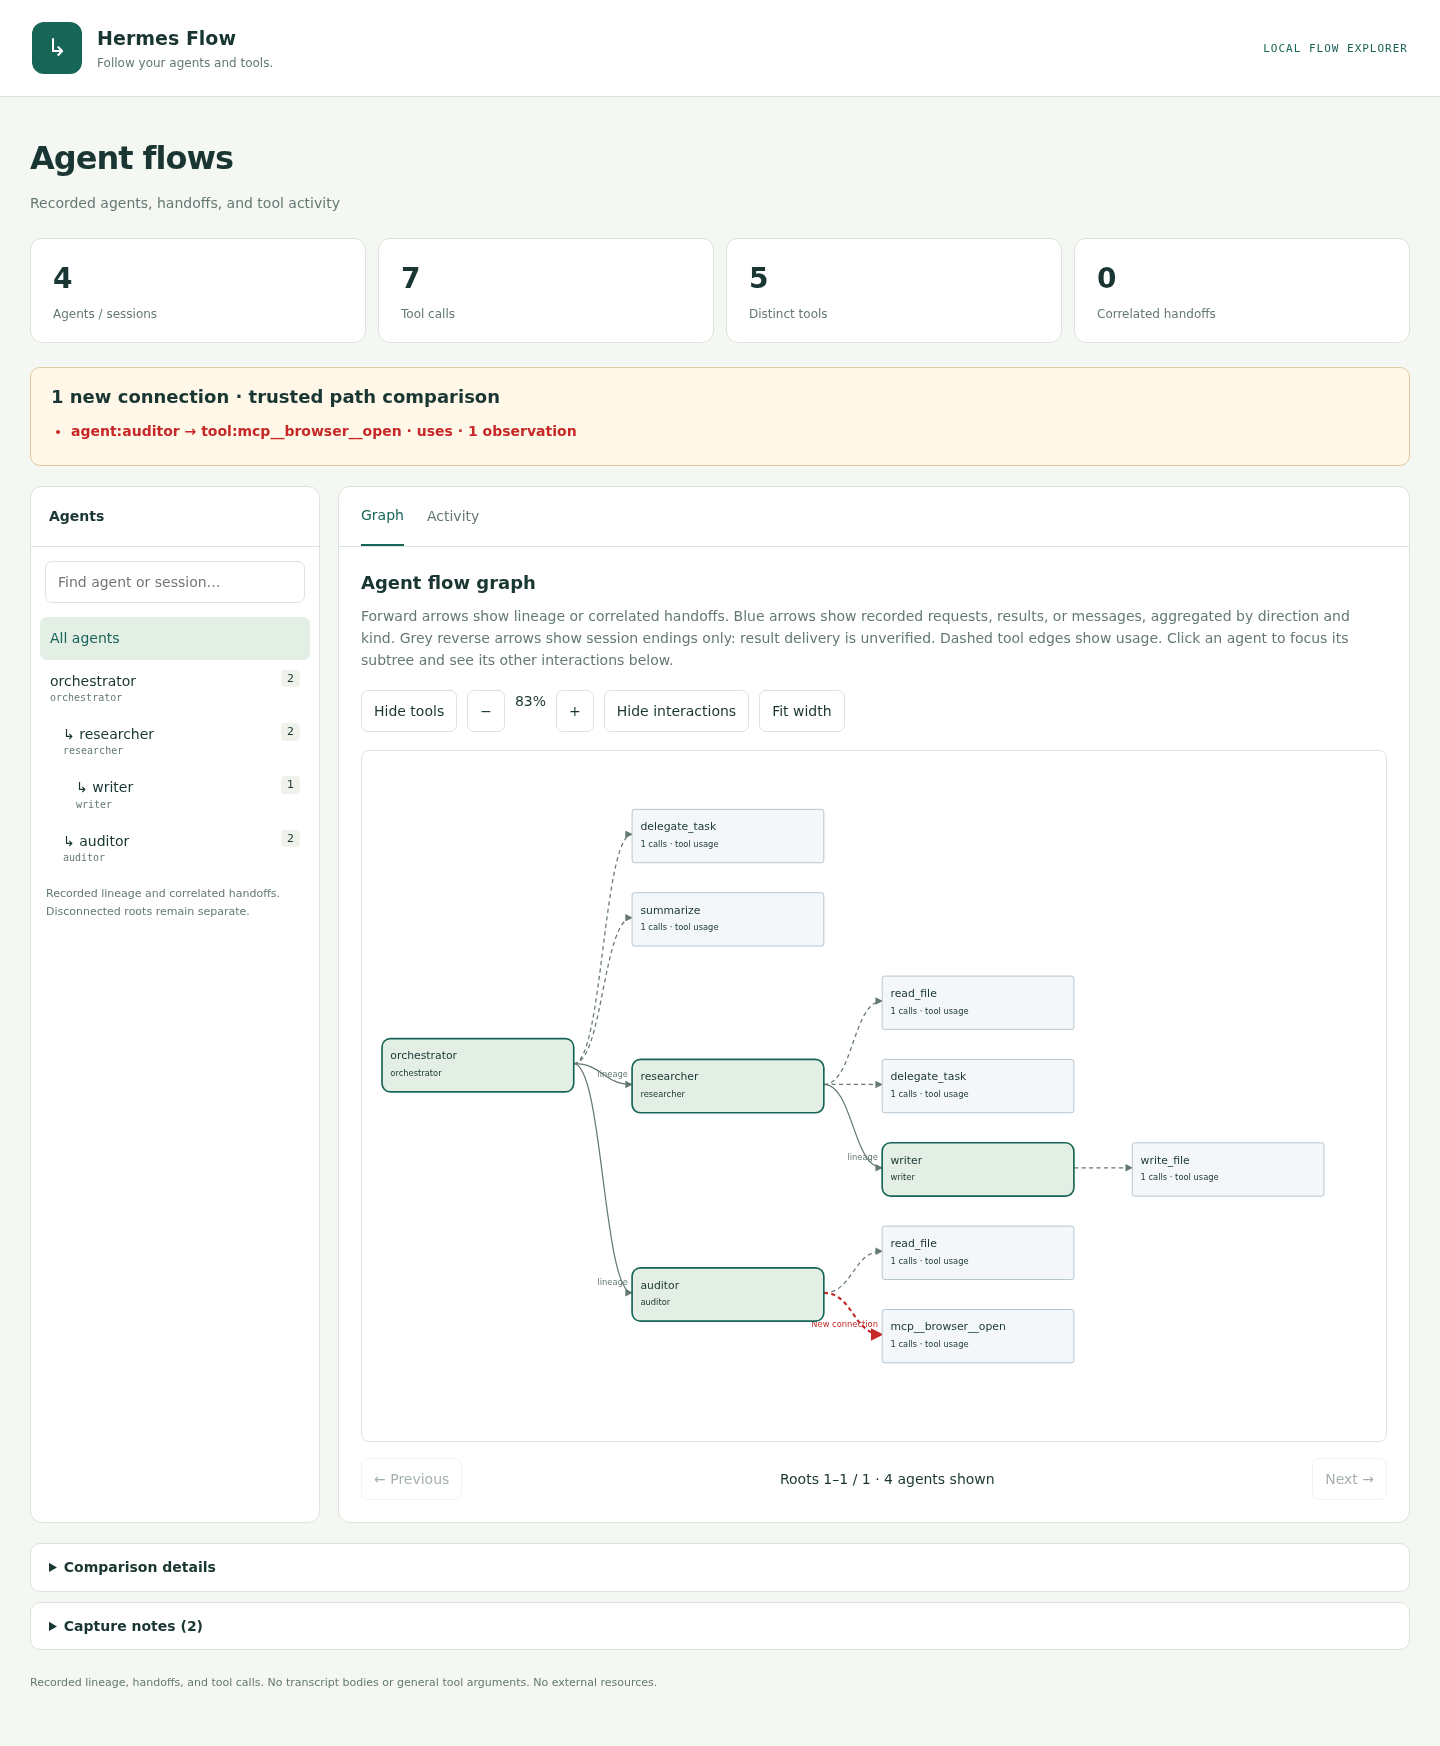
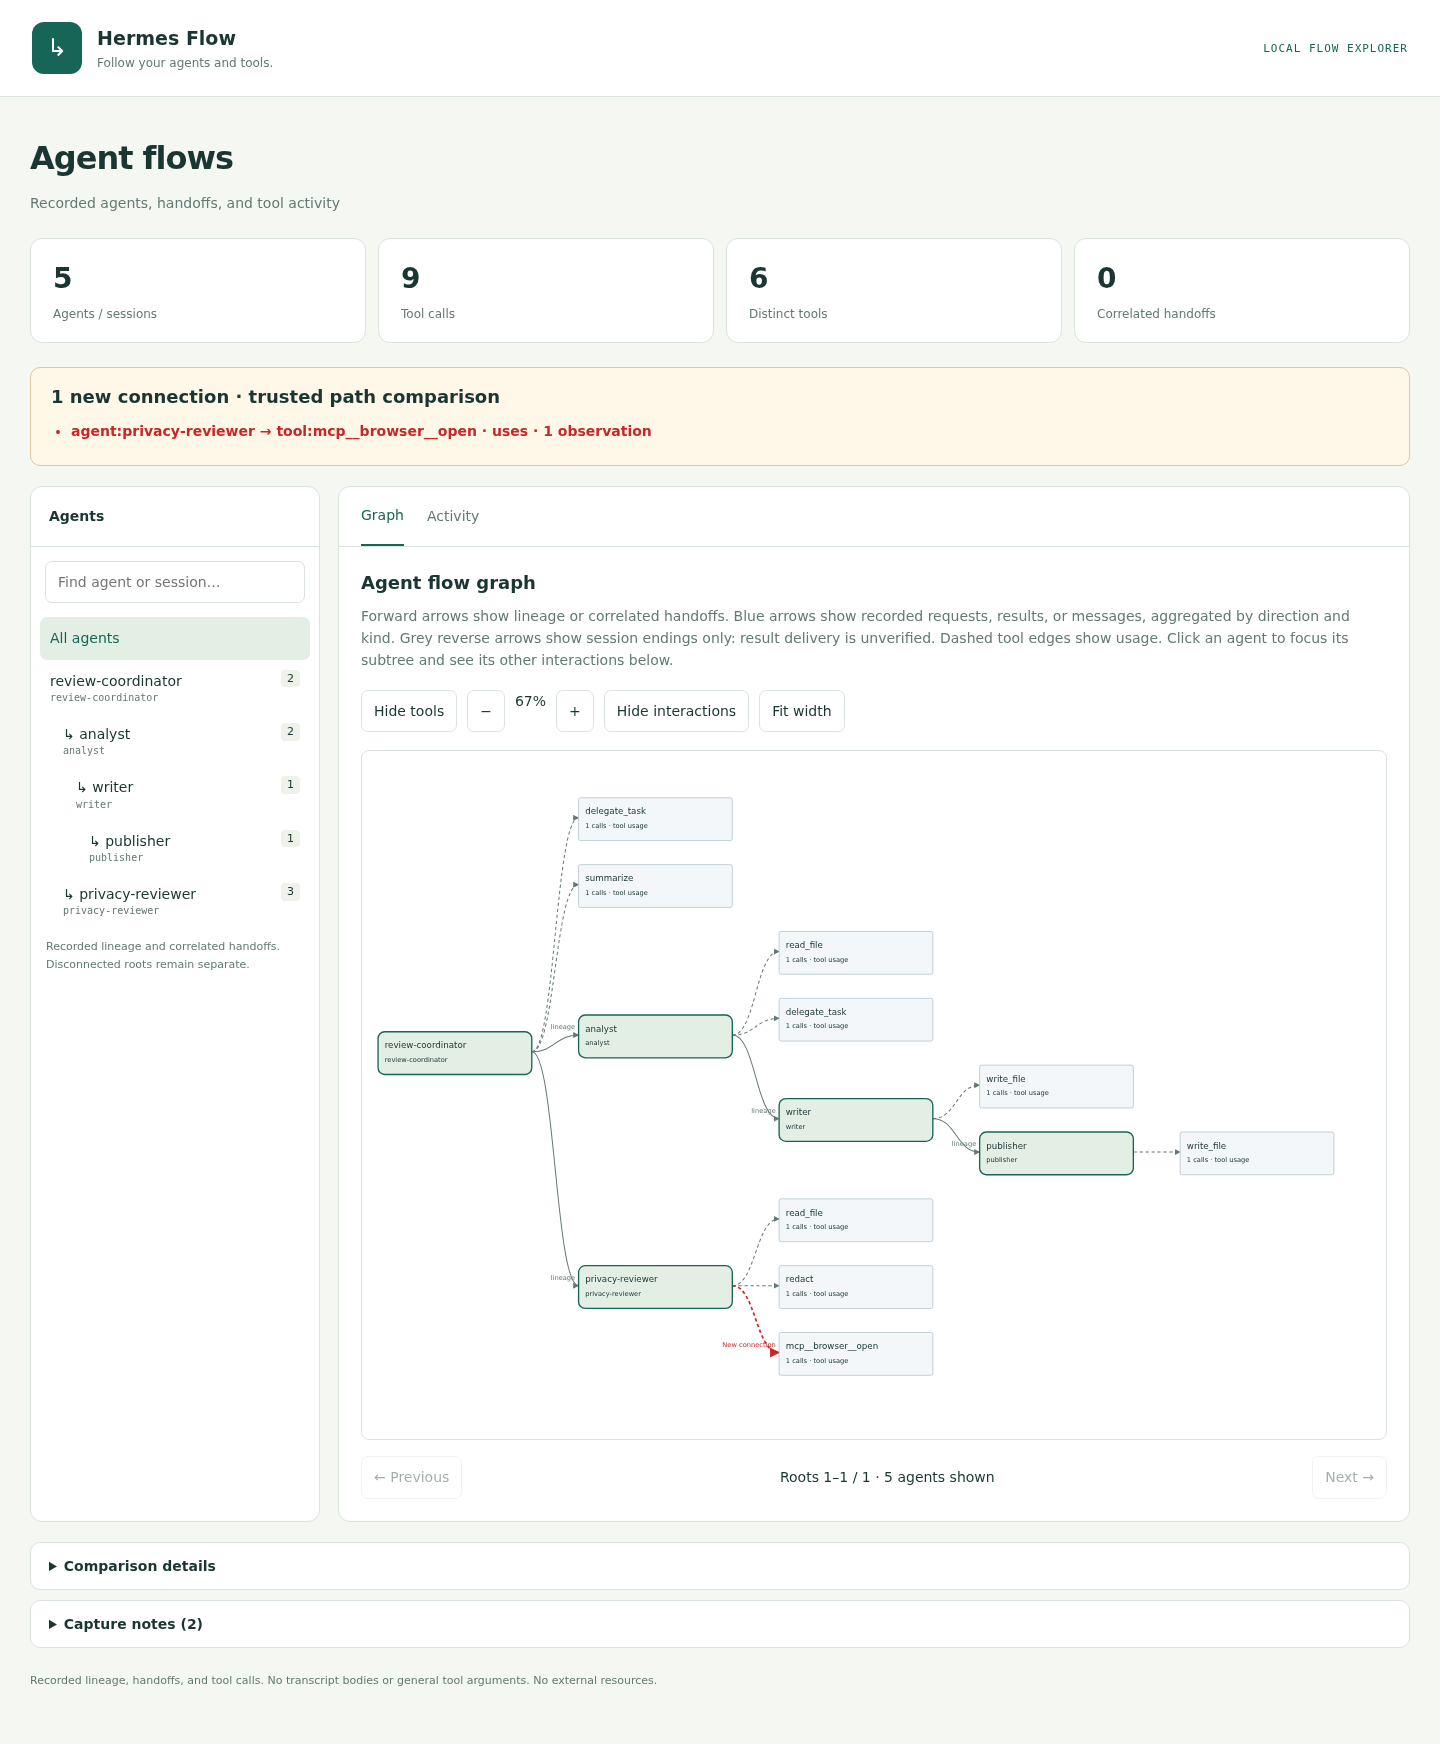
update readme

diff --git a/README.md b/README.md
@@ -12,22 +12,27 @@ external services.
 
 ## See the signal first
 
+The screenshots show two different workflows: the first demonstrates an
+unexpected agent message in a four-agent flow; the second shows a separate
+five-agent review flow with an unexpected browser-tool connection.
+
 The primary view shows the flow and one reverse connection outside the trusted
 path, highlighted in red:
 
-![Agent flow with one trusted-path deviation](docs/flow.png)
+![Four-agent flow with an unexpected agent-message deviation](docs/flow.png)
 
-The second view shows a different deviation: an auditor using a new
+The second view shows a different workflow and deviation: a privacy reviewer
+using a new
 `mcp__browser__open` tool. The summary names the connection:
 
-![Trusted-path comparison with a new tool connection](docs/trusted-paths.png)
+![Five-agent review flow with an unexpected browser-tool deviation](docs/trusted-paths.png)
 
 Reports show new connections above the graph. Capture notes and baseline
 details stay collapsed below it.
 
-Both screenshots keep tool nodes visible: the first contains six ordinary
-tool calls plus a separate red message edge, while the second contains seven
-tool calls, including the new browser connection.
+Both screenshots keep tool nodes visible. The first contains six ordinary
+tool calls plus a separate red message edge; the second contains nine calls,
+including the new browser connection.
 
 ## Reconstruct existing Hermes history
 
@@ -118,9 +123,10 @@ tool safety.
 
 ### Reproduce both one-deviation examples
 
-Both screenshots start from the same synthetic known-good flow. The first adds
-an `auditor → orchestrator` message; the second adds an
-`auditor → mcp__browser__open` tool call. Each report has one new connection.
+The first adds an `auditor → orchestrator` message to a four-agent flow. The
+second uses a separate five-agent review flow and adds a
+`privacy-reviewer → mcp__browser__open` tool call. Each report has one new
+connection.
 
 ```bash
 python3 - <<'PY'
@@ -163,17 +169,30 @@ message_rows = rows + [{
         "kind": "message",
     },
 }]
-tool_rows = rows + [{
-    "session_id": "auditor",
-    "agent_role": "auditor",
-    "parent_session_id": "orchestrator",
-    "tool": "mcp__browser__open",
-    "call_id": "auditor-browser",
-    "timestamp": 1792843210,
-    "status": "ok",
+review_rows = []
+for sid, parent, tools in (
+    ("review-coordinator", None, ["delegate_task", "summarize"]),
+    ("analyst", "review-coordinator", ["read_file", "delegate_task"]),
+    ("privacy-reviewer", "review-coordinator", ["read_file", "redact"]),
+    ("writer", "analyst", ["write_file"]),
+    ("publisher", "writer", ["write_file"]),
+):
+    for i, tool in enumerate(tools):
+        review_rows.append({"session_id": sid, "agent_role": sid,
+                            "parent_session_id": parent, "tool": tool,
+                            "call_id": f"{sid}-{i}",
+                            "timestamp": 1792843300 + len(review_rows),
+                            "status": "ok"})
+review_baseline = Path("example-review-trusted-paths.json")
+write(review_baseline, create(observe(review_rows)))
+tool_rows = review_rows + [{
+    "session_id": "privacy-reviewer", "agent_role": "privacy-reviewer",
+    "parent_session_id": "review-coordinator", "tool": "mcp__browser__open",
+    "call_id": "privacy-browser", "timestamp": 1792843310, "status": "ok",
 }]
-for name, example in (("message", message_rows), ("tool", tool_rows)):
-    report = compare(observe(example), read(baseline_path), baseline_path)
+for name, example, baseline_file in (("message", message_rows, baseline_path),
+                                     ("tool", tool_rows, review_baseline)):
+    report = compare(observe(example), read(baseline_file), baseline_file)
     if name == "message":
         # Keep the message deviation in the interaction view without counting
         # its carrier row as an additional tool call in this illustration.
